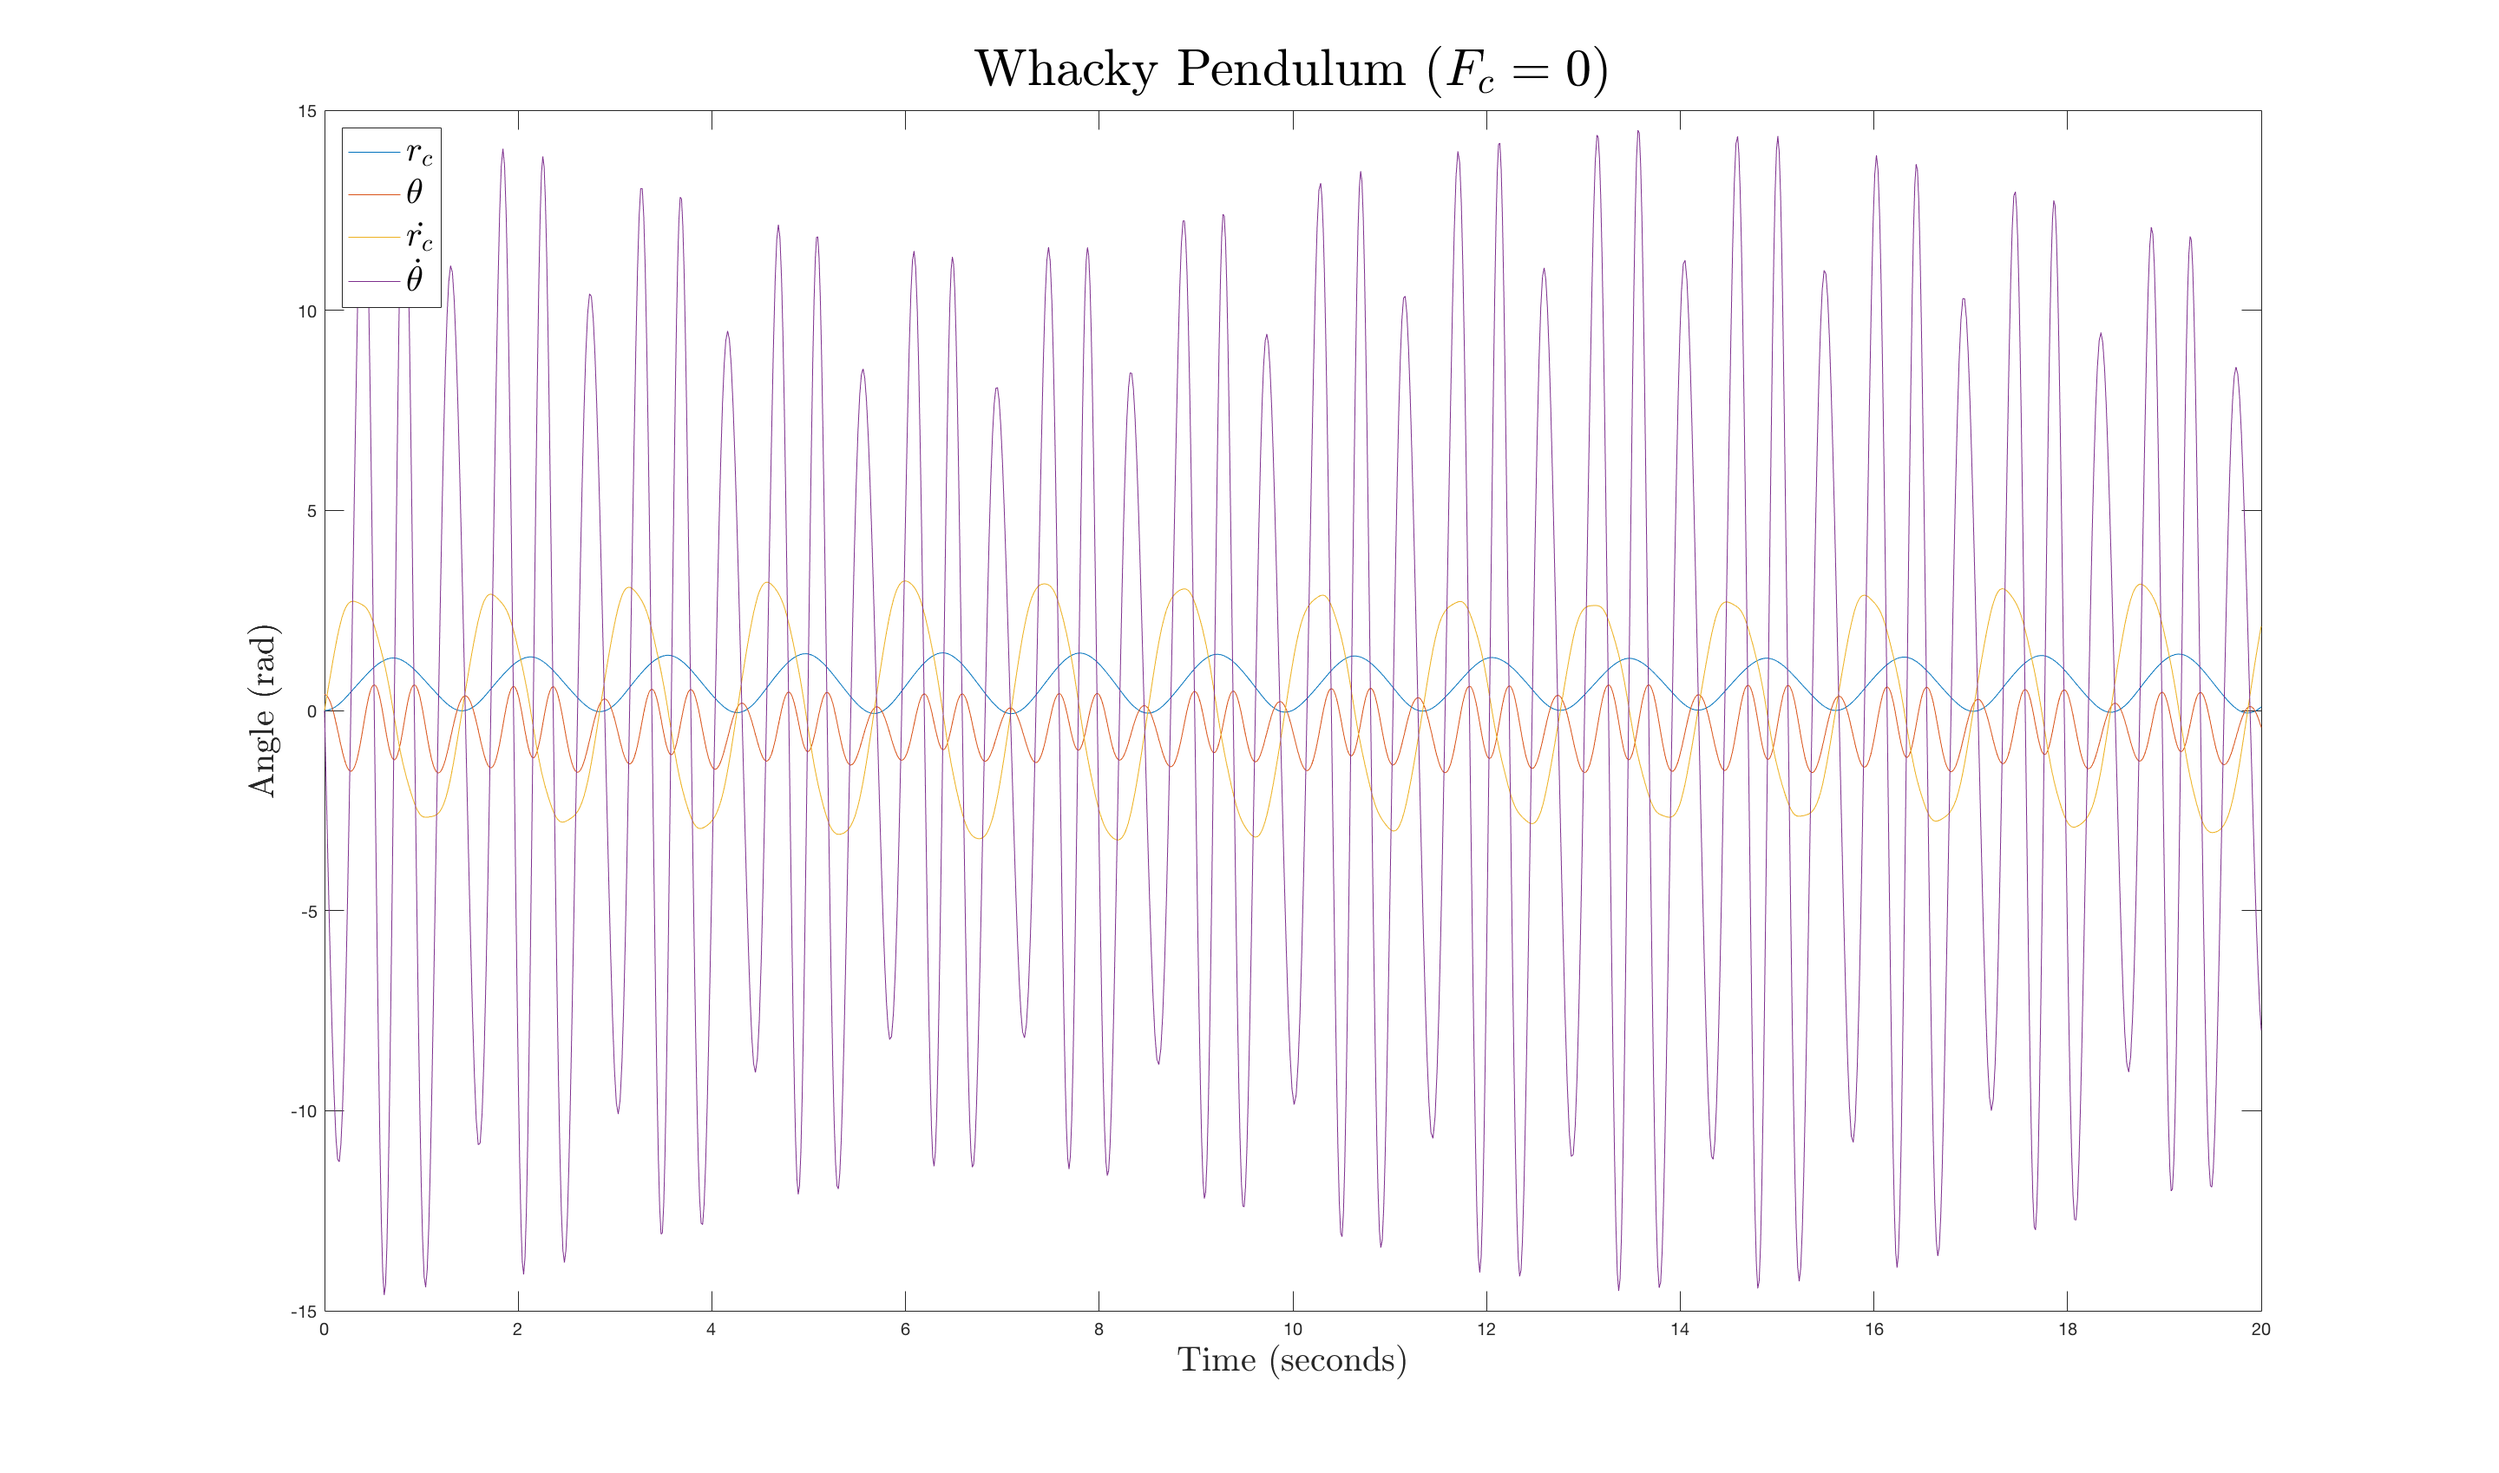
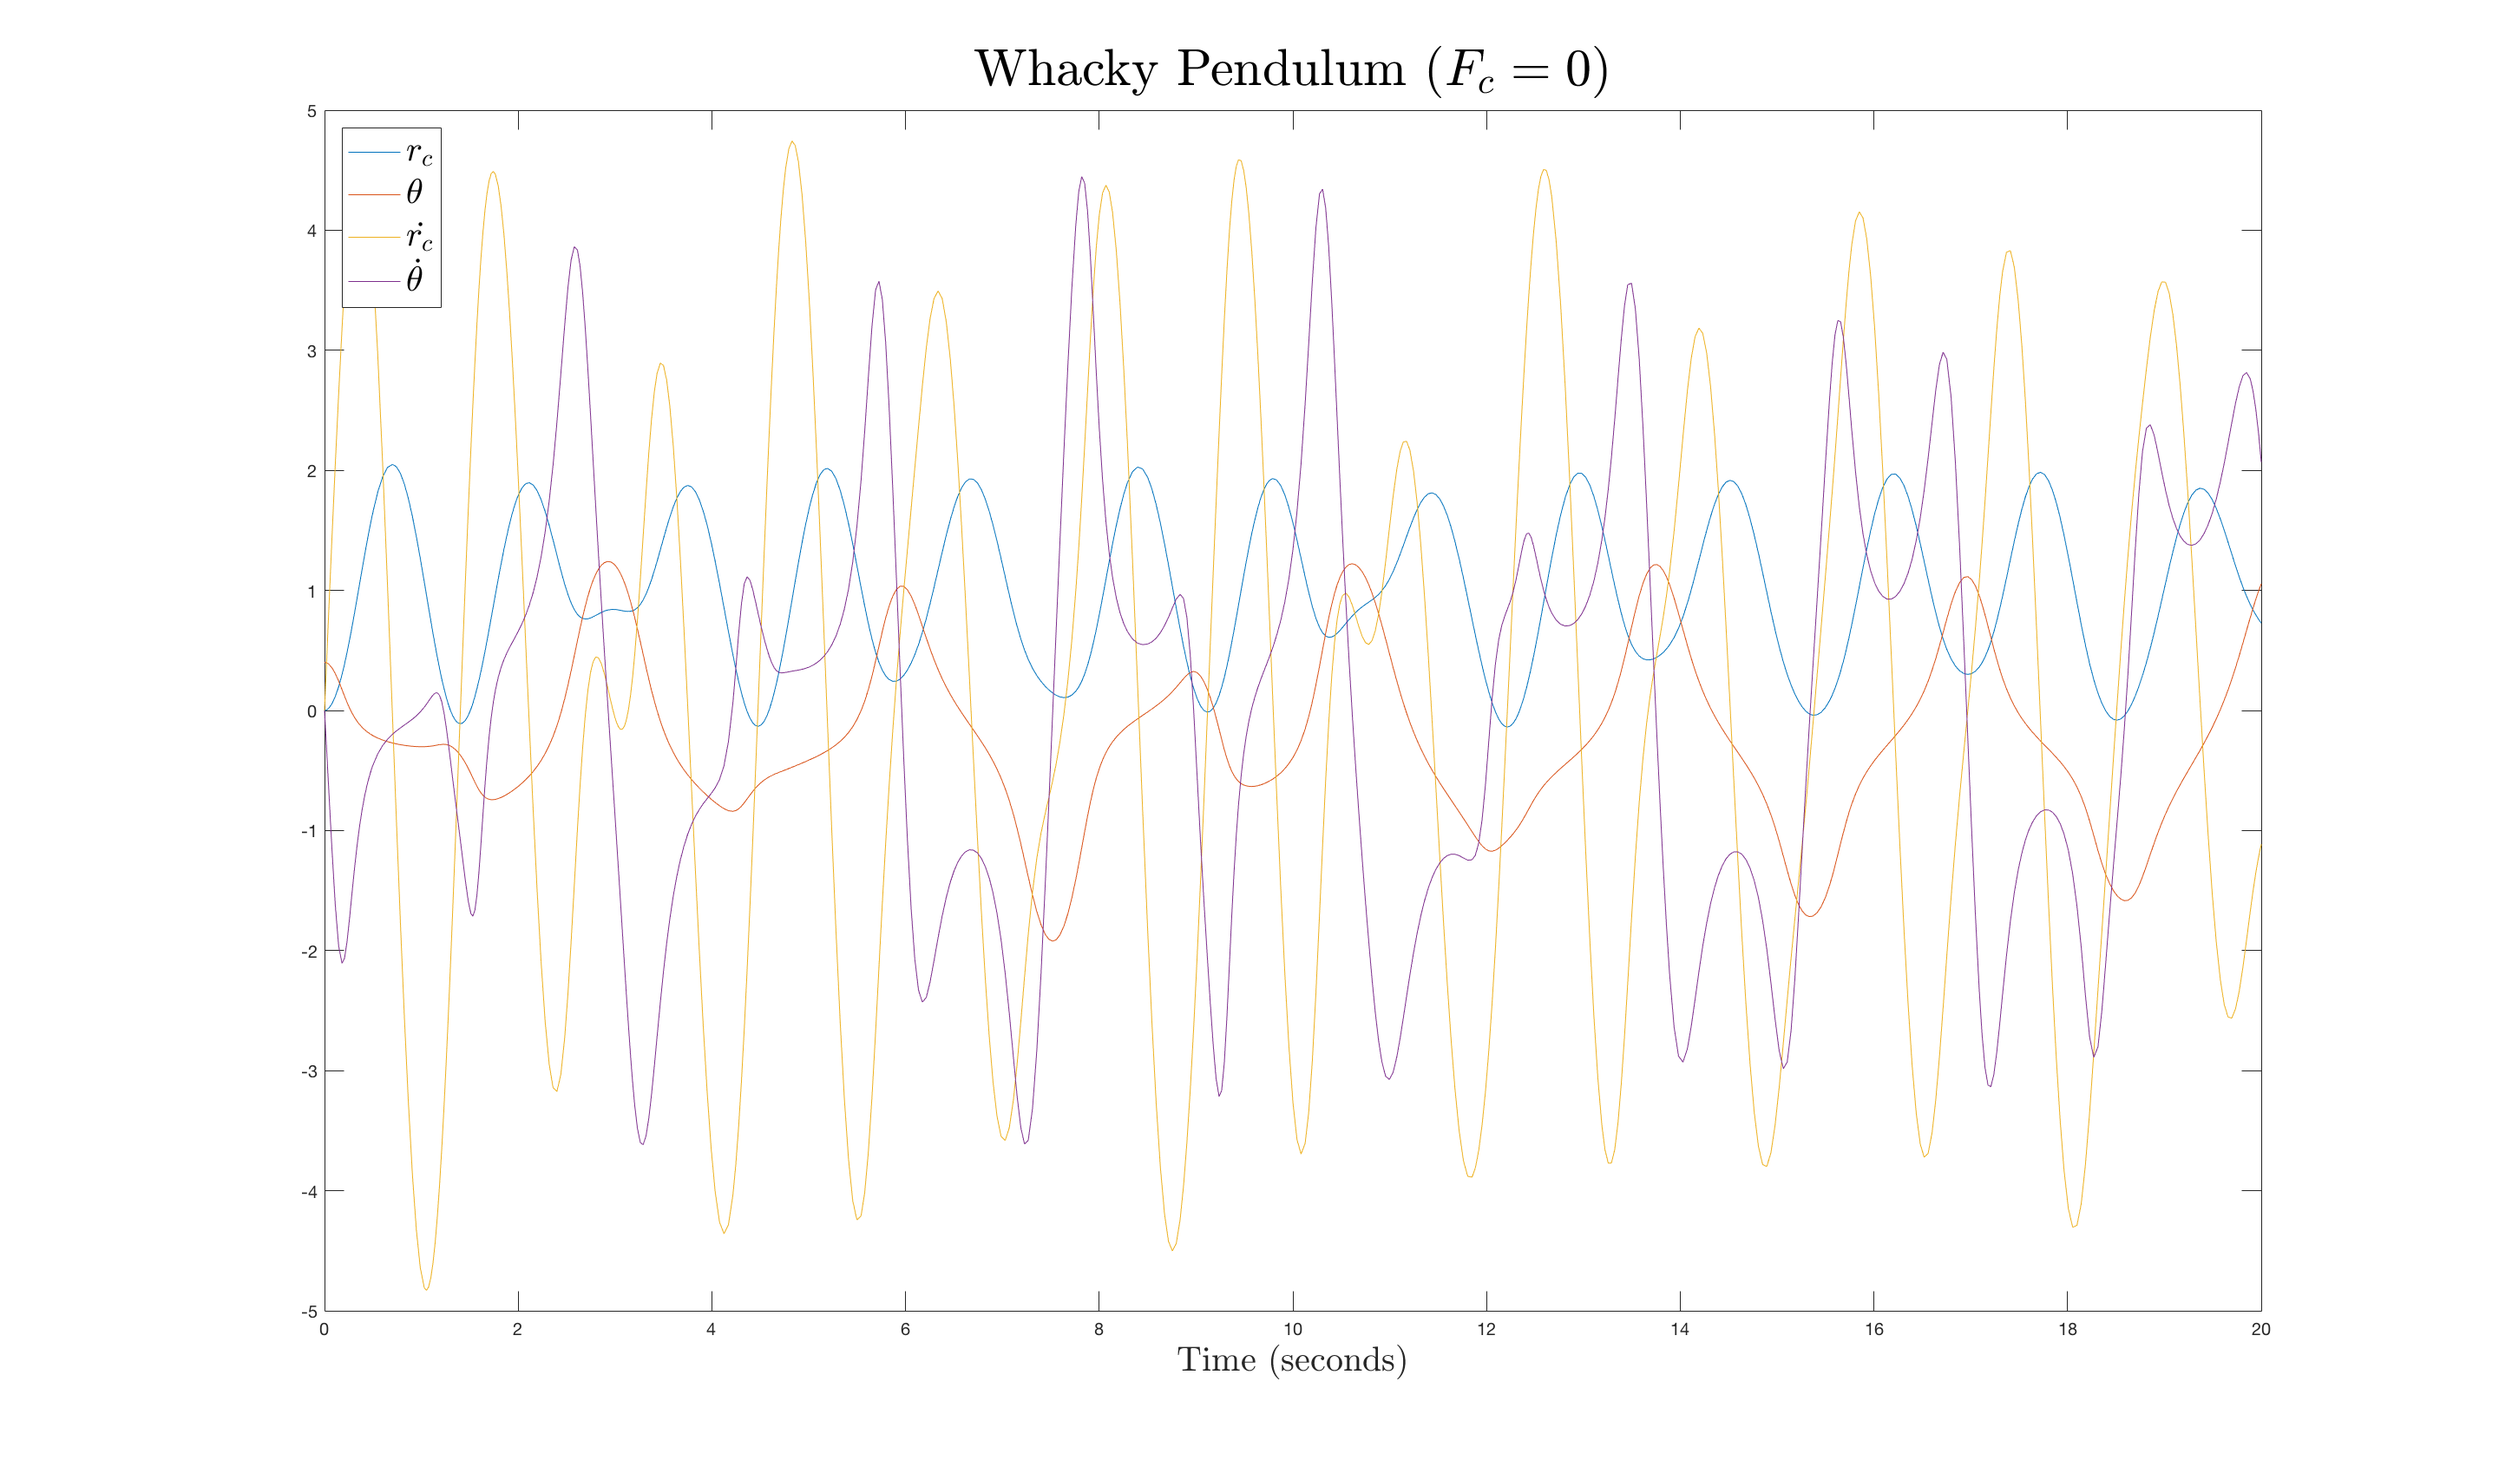
Fix whacky pendulum

Changed region(s): [[0.125, 0.1561, 0.9062, 0.8115], [0.1875, 0.1249, 0.2188, 0.1873], [0.3125, 0.7491, 0.3438, 0.7803]]

diff --git a/Homework/HW3/whacky_pendulum_sim.m b/Homework/HW3/whacky_pendulum_sim.m
@@ -6,7 +6,7 @@ figure(11); clf;
 plot(t_out, y_out);
 title('Whacky Pendulum ($F_c = 0$)','FontSize',30,'Interpreter','Latex');
 xlabel('Time (seconds)','FontSize',20,'Interpreter','Latex');
-ylabel('Angle (rad)','FontSize',20,'Interpreter','Latex');
+%ylabel('Angle (rad)','FontSize',20,'Interpreter','Latex');
 legend({'$r_c$','$\theta$','$\dot{r_c}$','$\dot{\theta}$'},'Location','NorthWest','FontSize',20,'Interpreter','Latex')
 
 M = p1_animate(t_out, y_out);
@@ -18,9 +18,9 @@ X_0 = [0; 0.4; 0; 0];
 
 figure(11); clf;
 plot(t_out, y_out);
-title('Whacky Pendulum ($F_c = -2*\dot{r_c}$)','FontSize',30,'Interpreter','Latex');
+title('Whacky Pendulum ($F_c = -2 \dot{r}_c$)','FontSize',30,'Interpreter','Latex');
 xlabel('Time (seconds)','FontSize',20,'Interpreter','Latex');
-ylabel('Angle (rad)','FontSize',20,'Interpreter','Latex');
-legend({'$r_c$','$\theta$','$\dot{r_c}$','$\dot{\theta}$'},'Location','NorthWest','FontSize',20,'Interpreter','Latex')
+%ylabel('Angle (rad)','FontSize',20,'Interpreter','Latex');
+legend({'$r_c$','$\theta$','$\dot{r_c}$','$\dot{\theta}$'},'Location','NorthEast','FontSize',20,'Interpreter','Latex')
 
 M = p1_animate(t_out, y_out);

diff --git a/Homework/HW3/whacky_pendulum_eom.m b/Homework/HW3/whacky_pendulum_eom.m
@@ -10,9 +10,9 @@ dtheta  = fulldiff(theta,GC);
 
 % 1b. Geometry of the masses/inertias, given GC's are freely changing...
 x_c = r_c * sin(theta);
-y_c = r_c * cos(theta);
+y_c = -r_c * cos(theta);
 x_p = L * sin(theta + beta);
-y_p = L * cos(theta + beta);
+y_p = -L * cos(theta + beta);
 
 % 1c. Define any required velocity terms (for masses):
 dx_c = fulldiff(x_c,GC);
@@ -21,12 +21,14 @@ dx_p = fulldiff(x_p,GC);
 dy_p = fulldiff(y_p,GC);
 
 % 2. Kinetic Energy:
-T = (1/2)*(m_c*dr_c^2 + J_c*dtheta^2) + (1/2)*J_p*dtheta^2;
+T = (1/2)*(m_c*(dx_c^2 + dy_c^2) + J_c*dtheta^2 + m_p*(dx_p^2 + dy_p^2) + J_p*dtheta^2);
+%T = (1/2)*(m_c*dr_c^2 + J_c*dtheta^2) + (1/2)*J_p*dtheta^2;
 %T = (1/2)*(m_c*(dx_c^2+dy_c^2) + J_c*dtheta^2 + J_p*dtheta^2);
 
 % 3. Potential Energy:
-V = m_c*g*L*(1-r_c*cos(theta)) + m_p*g*L*(1-cos(theta+beta)) + (1/2)*k*(r_c-L)^2; 
-% V = m_c*g*(L-y_c) + m_p*g*(L-y_p) + (1/2)*k*(r_c-L)^2;
+V = (m_c*y_c + m_p*y_p)*g + 1/2*k*(r_c - L)^2;
+%V = m_c*g*L*(1-r_c*cos(theta)) + m_p*g*L*(1-cos(theta+beta)) + (1/2)*k*(r_c-L)^2; 
+%V = m_c*g*(L-y_c) + m_p*g*(L-y_p) + (1/2)*k*(r_c-L)^2;
 
 % 4. Lagrangian:
 La = T-V;

diff --git a/InvertedPendulum/lab3a_plots.m b/InvertedPendulum/lab3a_plots.m
@@ -77,3 +77,27 @@ xlabel('Time (seconds)', 'FontSize', 20, 'Interpreter', 'Latex');
 ylabel('Output', 'FontSize', 20, 'Interpreter', 'Latex');
 ylim([-200 200])
 xlim([0 16]);
+
+%% Plot 1b
+load('mat-files/plot1b.mat');
+
+t_theta = simout_theta.time;
+theta = simout_theta.signals.values;
+
+t_phi = simout_phi.time;
+phi = simout_phi.signals.values;
+
+figure(5); clf;
+subplot(2, 1, 1); hold on;
+plot(t_theta - 56, theta);
+title('Body Angle, $\theta$', 'FontSize', 30, 'Interpreter', 'Latex');
+xlabel('Time (seconds)', 'FontSize', 20, 'Interpreter', 'Latex');
+ylabel('Angle (rad)', 'FontSize', 20, 'Interpreter', 'Latex');
+xlim([0 16]);
+
+subplot(2, 1, 2); hold on;
+plot(t_phi - 56, phi);
+title('Wheel Angle, $\phi$', 'FontSize', 30, 'Interpreter', 'Latex');
+xlabel('Time (seconds)', 'FontSize', 20, 'Interpreter', 'Latex');
+ylabel('Angle (rad)', 'FontSize', 20, 'Interpreter', 'Latex');
+xlim([0 16]);

diff --git a/InvertedPendulum/Lab3a_template_code.m b/InvertedPendulum/Lab3a_template_code.m
@@ -77,7 +77,7 @@ K = lqr(A,B,Q,R);
 
 K(3) = 0;           %performance is better w/ dphi state zero or small
 K
-eig(A-B*K);
+e = eig(A-B*K)
 
 
 %% Tuned:
@@ -93,6 +93,11 @@ traj_phi = smooth(traj_phi,20);
 
 traj_dphi = [0; (diff(traj_phi))/Ts_traj];
     
+plot(traj_phi); hold on;
+title('Wheel reference angle, $\phi$', 'FontSize', 30, 'Interpreter', 'Latex');
+xlabel('Time (seconds)', 'FontSize', 20, 'Interpreter', 'Latex');
+ylabel('Angle (rad)', 'FontSize', 20, 'Interpreter', 'Latex');
+
 %    _________________________________
 %   |:::::::::::::;;::::::::::::::::::|
 %   |:::::::::::'~||~~~``:::::::::::::|

diff --git a/Homework/HW3/whacky_pendulum_function.m b/Homework/HW3/whacky_pendulum_function.m
@@ -17,8 +17,11 @@ g       = 9.81;
 %F_c     = 0;
 F_c     = -2*dr_c;
 
-d2r_c = (F_c + (k*(2*L - 2*r_c))/2 + L*g*m_c*cos(theta))/m_c;
-d2theta = -(L*g*m_p*sin(beta + theta) + L*g*m_c*r_c*sin(theta))/(J_c + J_p);
+d2r_c = (m_c*r_c*dtheta^2 + F_c + L*k - k*r_c + g*m_c*cos(theta))/m_c;
+d2theta = -(2*dr_c*dtheta*m_c*r_c + L*g*m_p*sin(beta + theta) + g*m_c*r_c*sin(theta))/(m_p*L^2 + m_c*r_c^2 + J_c + J_p);
+
+%d2r_c = (F_c + (k*(2*L - 2*r_c))/2 + L*g*m_c*cos(theta))/m_c;
+%d2theta = -(L*g*m_p*sin(beta + theta) + L*g*m_c*r_c*sin(theta))/(J_c + J_p);
 
 dX      = [dr_c; dtheta; d2r_c; d2theta];
 end

diff --git a/Homework/Project/dipc_simulation.m b/Homework/Project/dipc_simulation.m
@@ -3,8 +3,8 @@
 % run('dipc_eom.m');
 
 %% Simulation
-X_0 = [0; 0; 0.1; 0; 0; 0];
-[t_out,y_out] = ode45(@dipc_function,[0 5],X_0');
+X_0 = [0; 0.01; -0.04; 0; 0; 0];
+[t_out,y_out] = ode45(@dipc_function,[0 25],X_0');
 
 figure(11); clf;
 plot(t_out, y_out);
